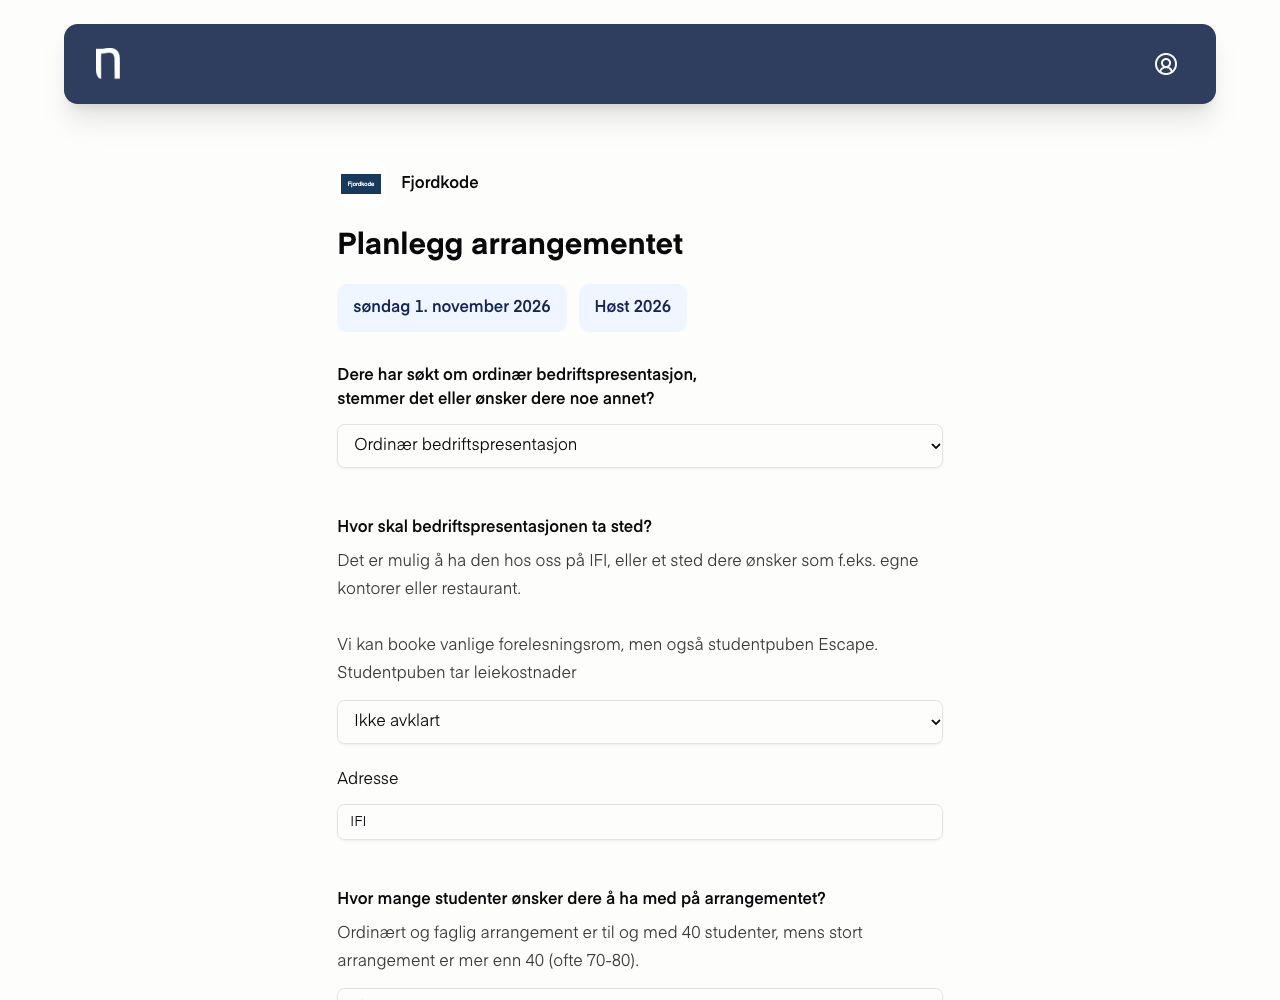
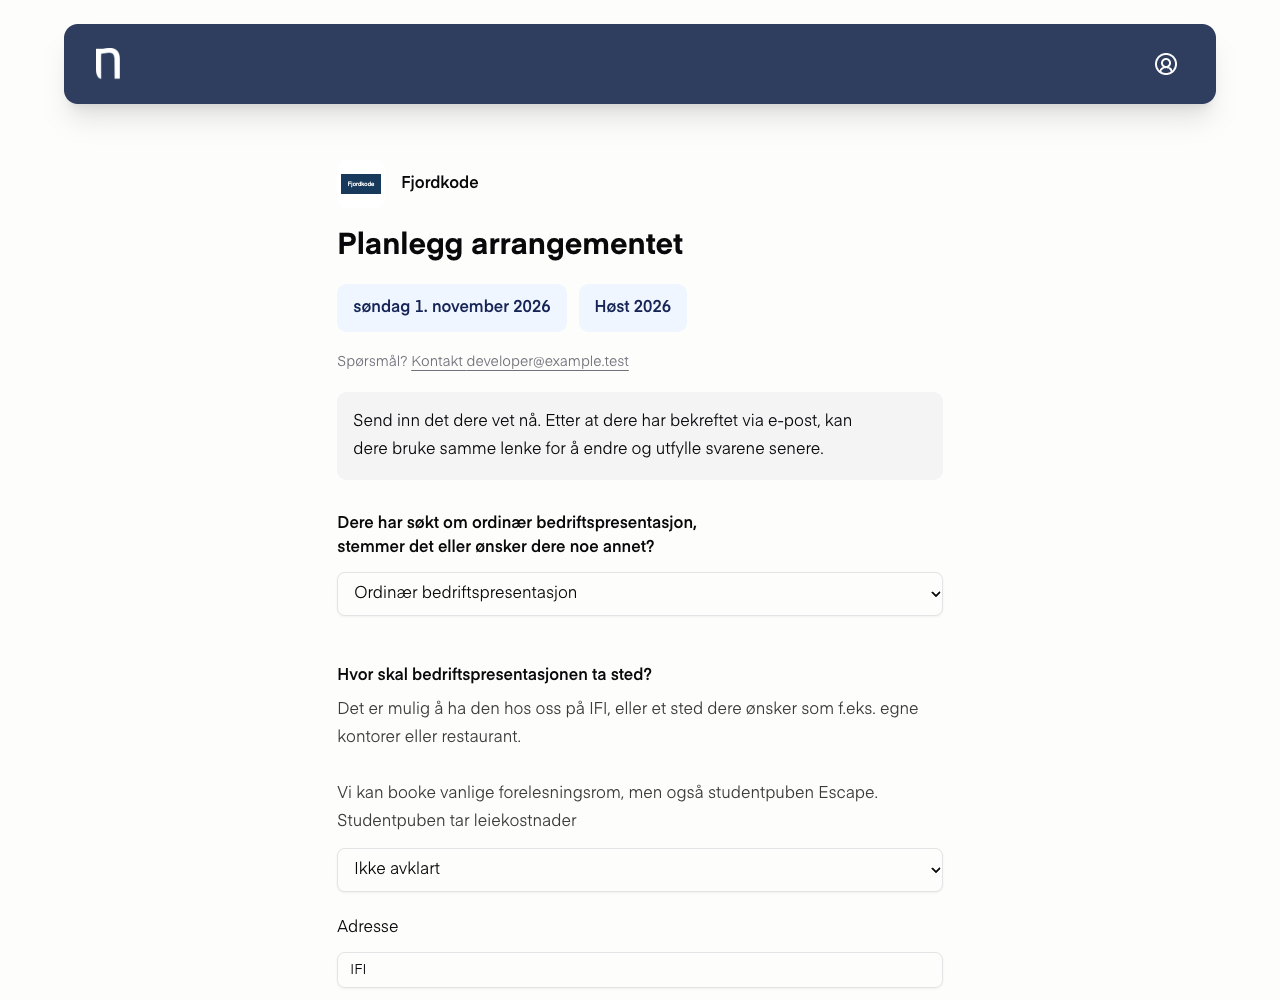
fix: default planning time and clarify company follow-up

Changed region(s): [[0.25, 0.496, 0.7188, 0.744], [0.25, 0.775, 0.6875, 0.992], [0.25, 0.341, 0.6562, 0.465]]

diff --git a/apps/hugin/src/components/event-planning/company-planning.tsx b/apps/hugin/src/components/event-planning/company-planning.tsx
@@ -30,6 +30,14 @@ function Planning({ token }: Readonly<{ token: string }>) {
 	if (!data) return <Unavailable />;
 	const { semester, year } = eventSemesterOf(data.eventStart);
 	const organizerEmail = data.organizerEmail || COMPANY_CONTACT_EMAIL;
+	const contact = (
+		<p className="text-muted-foreground text-sm">
+			Spørsmål?{" "}
+			<a className="break-words underline underline-offset-4" href={`mailto:${organizerEmail}`}>
+				Kontakt {organizerEmail}
+			</a>
+		</p>
+	);
 	return (
 		<div className="mx-auto w-full max-w-[65ch] py-5 sm:py-8">
 			<header className="mb-8 space-y-5">
@@ -50,6 +58,13 @@ function Planning({ token }: Readonly<{ token: string }>) {
 						</p>
 					</div>
 				</div>
+				{contact}
+				{!sent && (
+					<p className="rounded-lg bg-muted p-4 text-base text-foreground leading-7">
+						Send inn det dere vet nå. Etter at dere har bekreftet via e-post, kan dere bruke samme
+						lenke for å endre og utfylle svarene senere.
+					</p>
+				)}
 			</header>
 			{sent ? (
 				<>
@@ -82,11 +97,7 @@ function Planning({ token }: Readonly<{ token: string }>) {
 					}}
 				/>
 			)}
-			<p className="mt-8 text-muted-foreground text-sm">
-				<a className="break-words underline underline-offset-4" href={`mailto:${organizerEmail}`}>
-					Kontakt {organizerEmail}
-				</a>
-			</p>
+			<div className="mt-8">{contact}</div>
 		</div>
 	);
 }

diff --git a/packages/backend/convex/events/planning/helpers.ts b/packages/backend/convex/events/planning/helpers.ts
@@ -111,7 +111,7 @@ export async function initialPlanning(ctx: QueryCtx, event: Doc<"events">) {
 		teaser: known(event.teaser),
 		description: known(event.description) || order?.description || "",
 		capacity: event.participationLimit,
-		startTime: formatOsloDate(event.eventStart, "HH:mm"),
+		startTime: "16:15",
 		venue,
 		location: known(event.location),
 		food: food?.name ?? event.food ?? "",

diff --git a/packages/backend/convex/events/planning/flow.test.ts b/packages/backend/convex/events/planning/flow.test.ts
@@ -27,6 +27,7 @@ async function fixture() {
 	await insertOrganizer(t, eventId, helper._id, "medhjelper");
 	const editor = asUser(t, lead);
 	const initial = await editor.query(api.events.planning.admin.get, { eventId });
+	expect(initial.initial.answers.startTime).toBe("16:15");
 	const preparation = {
 		...initial.initial,
 		contactName: "Bedrift",
